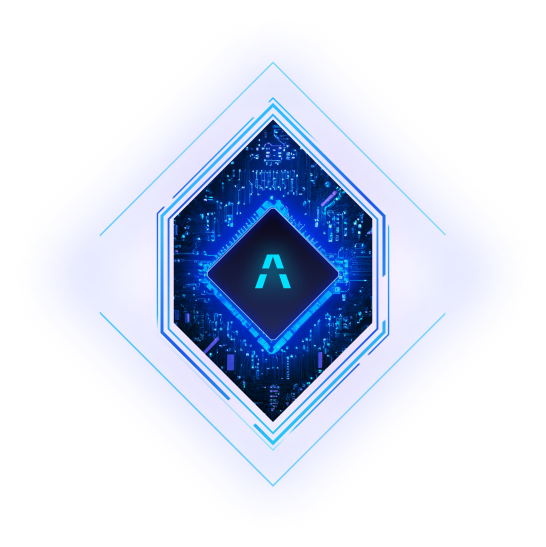
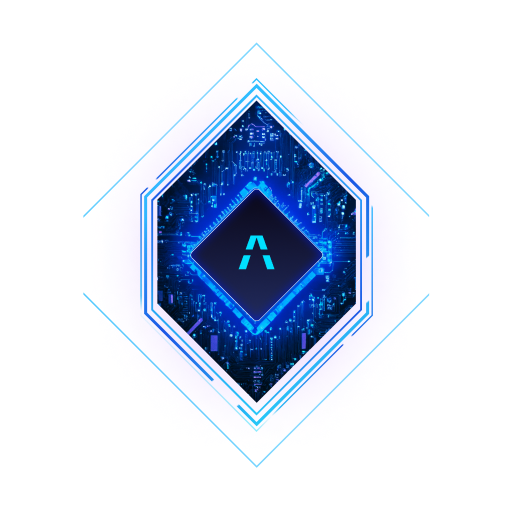
Add proccessor pulse

Changed region(s): [[0.1761, 0.0881, 0.8219, 0.91], [0.4403, 0.4403, 0.5577, 0.5284]]

diff --git a/src/components/@pages/ClustersPage/Board/Board.scss b/src/components/@pages/ClustersPage/Board/Board.scss
@@ -48,10 +48,10 @@
 
 .board__cooler-left-fan {
 	position: absolute;
-	top: 33.36px;
-	left: 32.55px;
+	top: math.div(33.36, 279) * 100%;
+	left: math.div(32.5, 400) * 100%;
 
-	height: 171px;
+	height: math.div(171, 279) * 100%;
 	aspect-ratio: 1;
 
 	&::before,
@@ -71,7 +71,7 @@
 
 	&::before {
 		background-image: url("/_layout-assets/img/_parts/board/cooler-fan.png");
-		animation: fan-rotation 5s infinite linear;
+		animation: fan-rotation 6s infinite linear;
 	}
 
 	&::after {
@@ -105,10 +105,10 @@
 
 .board__cooler-right-fan {
 	position: absolute;
-	top: 33.36px;
-	right: 32.55px;
+	top: math.div(33.36, 279) * 100%;
+	right: math.div(32.5, 400) * 100%;
 
-	height: 171px;
+	height: math.div(171, 279) * 100%;
 	aspect-ratio: 1;
 
 	&::before,
@@ -128,8 +128,8 @@
 
 	&::before {
 		background-image: url("/_layout-assets/img/_parts/board/cooler-fan.png");
-		animation: fan-rotation 5s infinite linear;
-		animation-delay: -2s;
+		animation: fan-rotation 6s infinite linear;
+		animation-delay: -3s;
 	}
 
 	&::after {
@@ -153,13 +153,63 @@
 		position: absolute;
 		top: 50%;
 		left: 50%;
-
-		width: 135.739856802%;
-		height: 128.716013683%;
 		transform: translate(-50%, -50%);
+
+		height: math.div(340, 283) * 100%;
+		aspect-ratio: 1;
 
 		background-image: url("/_layout-assets/img/_parts/board/processor.png");
 		background-size: 100% 100%;
+	}
+}
+
+.board__processor-light {
+	position: absolute;
+	top: 50%;
+	left: 50%;
+	transform: translate(-50%, -50%);
+
+	height: math.div(340, 283) * 100%;
+	aspect-ratio: 1;
+
+	&::before {
+		content: "";
+		position: absolute;
+		top: 0;
+		left: 0;
+		width: 100%;
+		height: 100%;
+		background-image: url("/_layout-assets/img/_parts/board/processor-light1.png");
+		background-size: 100% 100%;
+		animation: processor-pulse 2s infinite;
+		animation-delay: -0.5s;
+	}
+
+	&::after {
+		content: "";
+		position: absolute;
+		top: 0;
+		left: 0;
+		width: 100%;
+		height: 100%;
+		background-image: url("/_layout-assets/img/_parts/board/processor-light2.png");
+		background-size: 100% 100%;
+		animation: processor-pulse 2s infinite;
+	}
+}
+
+@keyframes processor-pulse {
+	0% {
+		opacity: 0;
+		transform: scale(1);
+	}
+	50% {
+		opacity: 1;
+		transform: scale(1.1);
+	}
+	100% {
+		opacity: 0;
+		transform: scale(1);
 	}
 }
 
